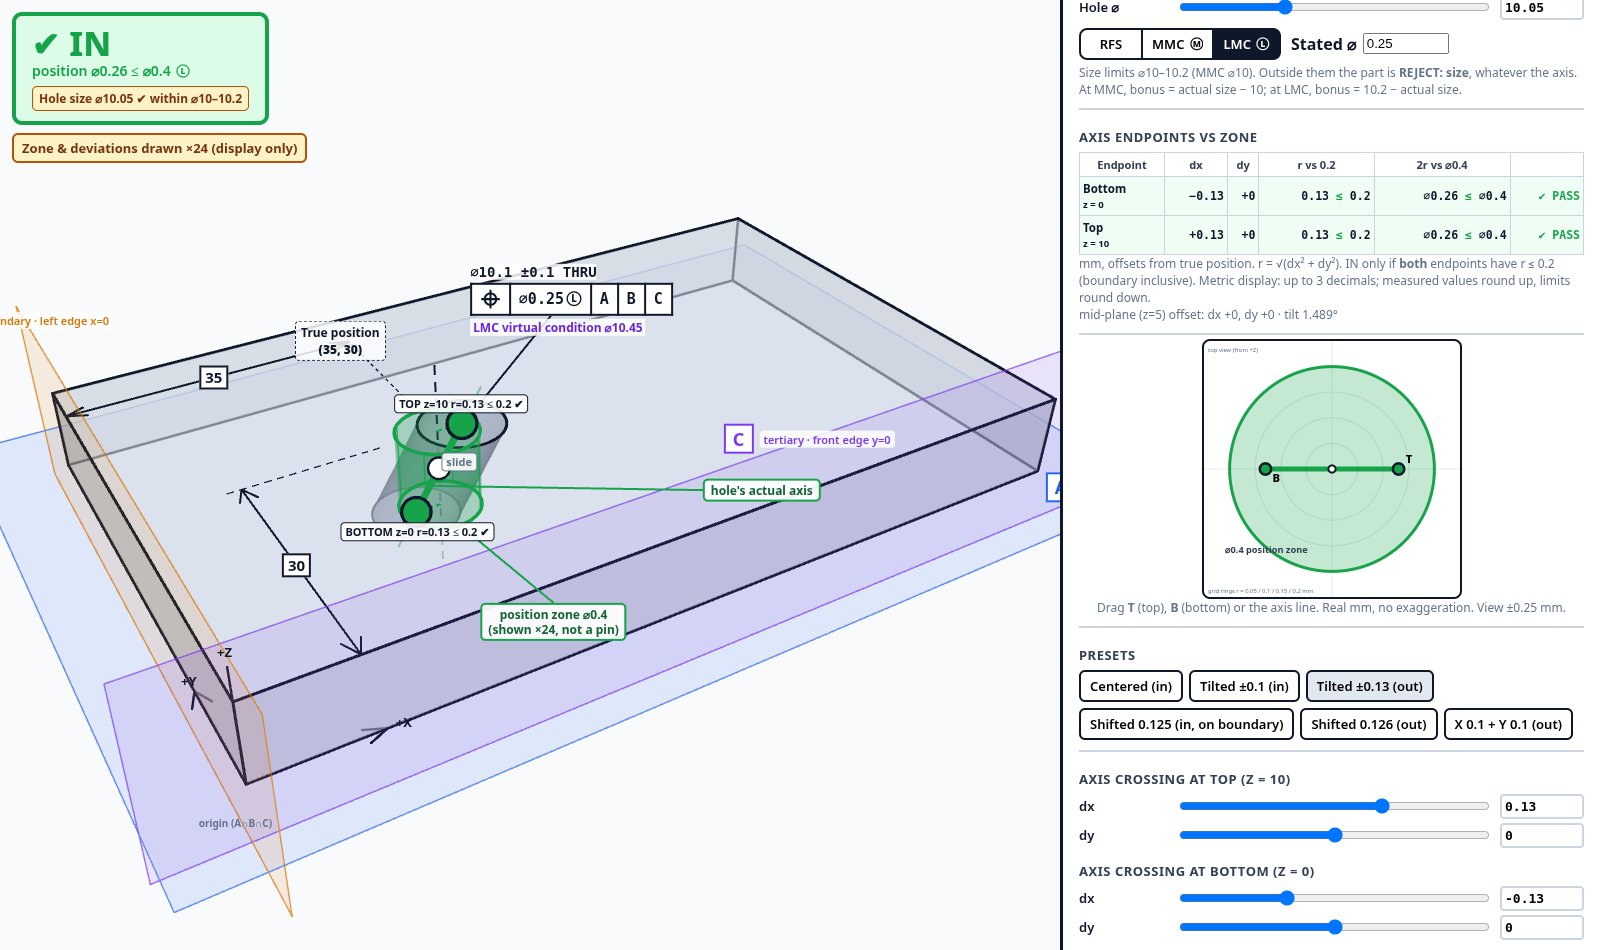
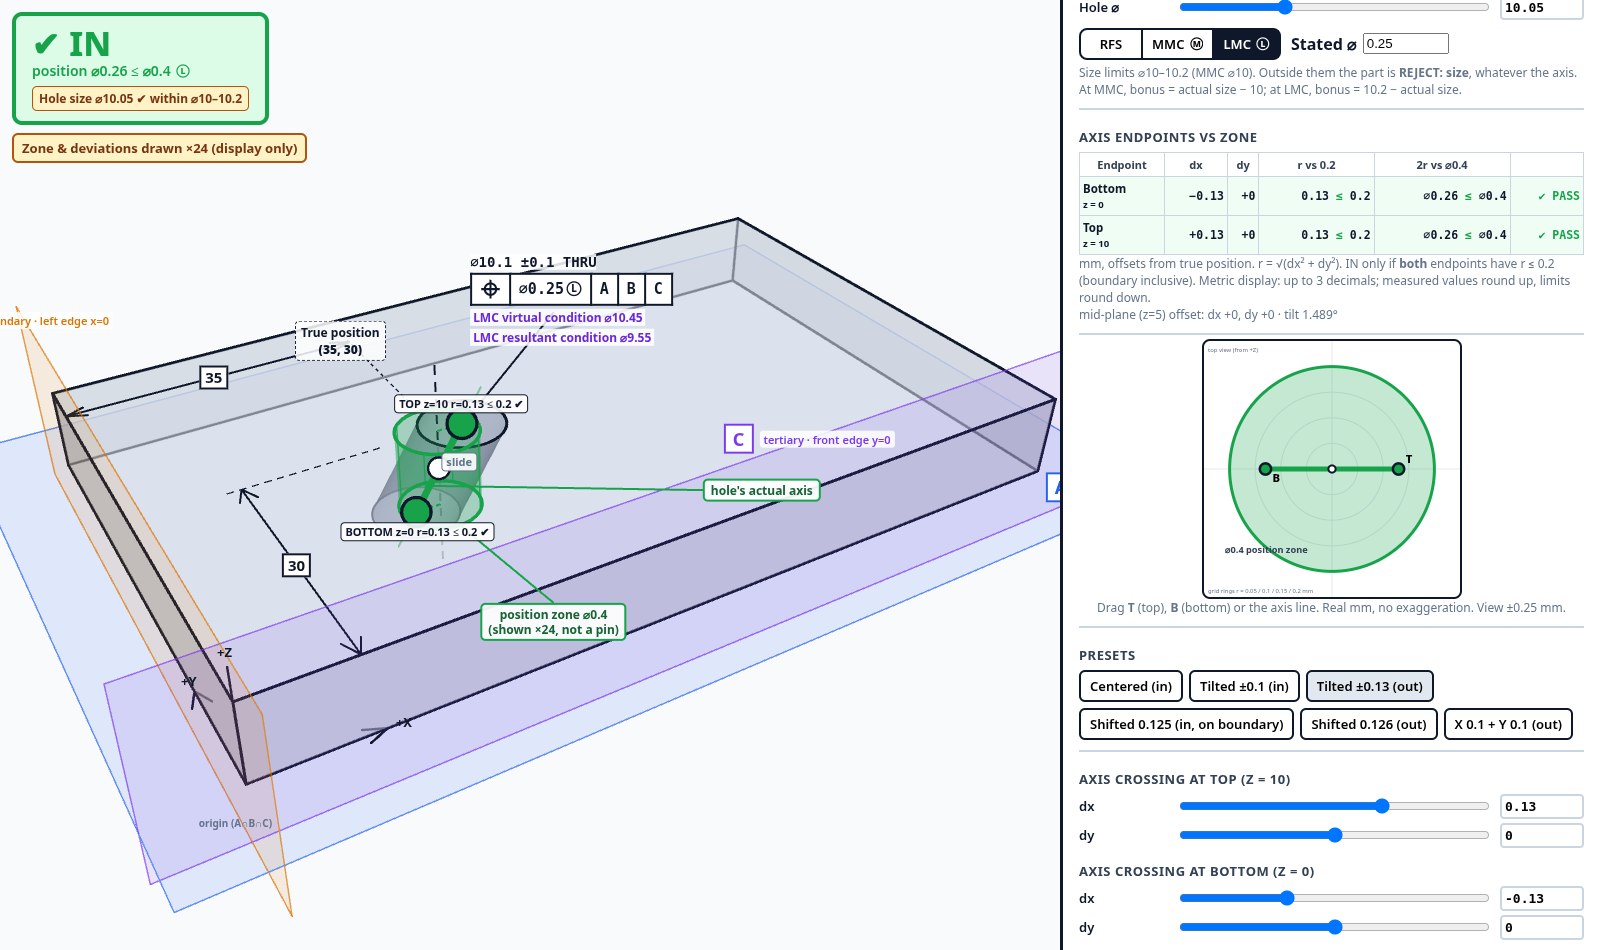
Sally: ⌀0 refusal names MMC or LMC; LMC resultant condition label (rounded up)

Changed region(s): [[0.2812, 0.2747, 0.4375, 0.3663]]

diff --git a/src/ui.js b/src/ui.js
@@ -13,7 +13,7 @@ export const STATUS = { IN: 'IN TOLERANCE', OUT: 'OUT OF TOLERANCE', REJECT_SIZE
 /** Shown when a stated ⌀0 is refused at RFS (Sally). */
 /** Teaching line shown (small) at MMC and LMC. */
 export const TEACH = 'MMC protects assembly, LMC protects material.';
-export const ZERO_REASON = '⌀0 is only meaningful at MMC, where bonus supplies the tolerance.';
+export const ZERO_REASON = '⌀0 is only meaningful at MMC or LMC, where bonus supplies the tolerance.';
 const BADGE = { IN: '✔ IN', OUT: '✘ OUT', REJECT_SIZE: '✘ REJECT: size', INVALID_TOL: '✘ INVALID' };
 const SVGNS = 'http://www.w3.org/2000/svg';
 
@@ -95,7 +95,10 @@ export function createUI(root, { onChange, onPreset, onMagnification, onXray, on
       ? `stated ⌀${fmt(sz.stated)} + bonus ⌀${fmtLimit(sz.bonus)} = allowed ⌀${fmtLimit(sz.allowed)}`
       : `stated ⌀${fmt(sz.stated)} = allowed ⌀${fmtLimit(sz.allowed)} <span class="muted">(RFS: no bonus)</span>`;
     $('#bonus-detail').textContent = bon ? (rej ? `no bonus: hole ⌀${fmt(sz.actualSize)} is outside ${SIZE_LIMITS}` : state.modifier === 'LMC' ? `bonus = LMC ⌀${fmt(SPEC.hole.lmc)} − actual ⌀${fmt(sz.actualSize)}` : `bonus = actual ⌀${fmt(sz.actualSize)} − MMC ⌀${fmt(SPEC.hole.mmc)}`) : '\u00a0'; // keep the line's height at RFS (no jump)
-    $('#vc-line').textContent = bon ? `${state.modifier === 'LMC' ? 'LMC ' : ''}virtual condition ⌀${fmtNote(sz.virtualCondition)}` : '\u00a0';
+    $('#vc-text').textContent = bon ? `${state.modifier === 'LMC' ? 'LMC ' : ''}virtual condition ⌀${fmtNote(sz.virtualCondition)}` : '\u00a0';
+    const lmc = state.modifier === 'LMC';
+    $('#rc-text').textContent = `LMC resultant condition ⌀${fmtUp(lmc ? sz.resultantCondition : SPEC.hole.mmc - (state.stated + SPEC.hole.lmc - SPEC.hole.mmc))}`;
+    $('#rc-text').style.visibility = lmc ? '' : 'hidden'; // reserve its space at RFS/MMC (no layout jump)
     $('#vc-line').style.visibility = bon ? 'visible' : 'hidden';
     $('#bonus-detail').style.visibility = bon ? 'visible' : 'hidden';
     $('#teach-line').style.visibility = bon ? 'visible' : 'hidden';
@@ -256,7 +259,7 @@ function template() {
     <div id="pos-detail" class="muted"></div>
     <div id="tol-line" class="tol-line"></div>
     <div id="bonus-detail" class="muted small"></div>
-    <div id="vc-line" class="vc-line"></div>
+    <div id="vc-line" class="vc-line"><span id="vc-text"></span><span id="rc-text" class="rc"></span></div>
     <div id="teach-line" class="muted small teach">${TEACH}</div>
     <div class="size-note"></div>
   </section>

diff --git a/src/tolerance.js b/src/tolerance.js
@@ -105,6 +105,8 @@ function assertFinite(obj) {
 const UNITS = 1e4;
 /** Round DOWN to 0.0001 (tiny float noise forgiven), so a bonus is never overstated. */
 const floorUnits = (v) => Math.floor(v * UNITS + 1e-6) / UNITS;
+/** Round UP to 0.0001 (minimum boundaries are never understated). */
+const ceilUnits = (v) => Math.ceil(v * UNITS - 1e-6) / UNITS;
 const roundUnits = (v) => Math.round(v * UNITS) / UNITS;
 
 /**
@@ -120,6 +122,8 @@ const roundUnits = (v) => Math.round(v * UNITS) / UNITS;
  *   stated tolerance, never on the actual size.
  * - LMC: bonus = lmc − actualSize (same clamps), allowed = stated + bonus.
  *   ⌀0 valid as at MMC. LMC virtual condition (hole) = lmc + stated.
+ *   LMC resultant condition = mmc − (stated + (lmc − mmc)), rounded up; it
+ *   depends only on the stated tolerance.
  * Bonus is floored to 0.0001 mm (conservative: never overstated).
  * On a size reject the bonus is not applicable: bonus = null and
  * allowed = stated (shown for information only; the verdict is REJECT: size).
@@ -149,6 +153,8 @@ export function allowedTolerance({ stated, modifier, actualSize, mmc, lmc }) {
     statedValid,
     bonus,
     allowed,
+    // LMC resultant condition (hole) = MMC size − allowed at MMC size = mmc − (stated + (lmc − mmc)); a minimum boundary, rounded up.
+    resultantCondition: modifier === 'LMC' ? ceilUnits(mmc - (stated + (lmc - mmc))) : null,
     virtualCondition: modifier === 'MMC' ? roundUnits(mmc - stated) : modifier === 'LMC' ? roundUnits(lmc + stated) : null,
   };
 }

diff --git a/src/viewer/scene.js b/src/viewer/scene.js
@@ -310,7 +310,7 @@ function buildStatic() {
 const FCF_ANCHOR = [TP.x + 30, TP.y + 20, H];
 let fcfLabel = null;
 function fcfDrawingHTML(state, result) {
-  const vc = state.modifier !== 'RFS' ? `<div class="vc-note">${state.modifier === 'LMC' ? 'LMC ' : ''}virtual condition ⌀${fmtNote(state.modifier === 'LMC' ? SPEC.hole.lmc + state.stated : SPEC.hole.mmc - state.stated)}</div>` : '';
+  const vc = state.modifier !== 'RFS' ? `<div class="vc-note">${state.modifier === 'LMC' ? 'LMC ' : ''}virtual condition ⌀${fmtNote(state.modifier === 'LMC' ? SPEC.hole.lmc + state.stated : SPEC.hole.mmc - state.stated)}</div>${state.modifier === 'LMC' ? `<div class="vc-note rc-note">LMC resultant condition ⌀${fmtUp(Math.ceil((SPEC.hole.mmc - (state.stated + SPEC.hole.lmc - SPEC.hole.mmc)) * 1e4 - 1e-6) / 1e4)}</div>` : ''}` : '';
   return `<div class="callout">⌀${SPEC.hole.nominal} ±${SPEC.hole.plusMinus} THRU</div>${fcfHTML(state)}${vc}`;
 }
 

diff --git a/styles.css b/styles.css
@@ -175,7 +175,9 @@ button:hover { background: #e2e8f0; }
 .mmcsym { width: 1.05em; height: 1.05em; display: inline-block; vertical-align: -0.17em; margin-left: 2px; }
 .fcf td.tol { white-space: nowrap; }
 .tol-line { font: 700 16px system-ui; margin-top: 6px; }
-.vc-line { font: 700 14px system-ui; color: #6d28d9; margin-top: 2px; }
+.vc-line { font: 700 14px system-ui; color: #6d28d9; margin-top: 2px; display: flex; flex-wrap: wrap; column-gap: 14px; }
+.vc-line .rc { color: #9d174d; }
+.rc-note { color: #9d174d; }
 .vc-note { font: 700 12px system-ui; color: #6d28d9; background: rgba(255,255,255,.85); width: fit-content; margin-top: 3px; padding: 0 3px; }
 .mc .mc-row { display: flex; flex-wrap: wrap; gap: 10px; align-items: center; margin: 8px 0 4px; }
 .mc .seg { display: inline-flex; }

diff --git a/tests/lmc.test.js b/tests/lmc.test.js
@@ -73,3 +73,11 @@ test('default VC labels: MMC ⌀9.75, LMC ⌀10.45, unchanged across sizes', () 
     assert.equal(tol(s).virtualCondition, 10.45);
   }
 });
+
+test('LMC resultant condition = 10.00 − (stated + 0.20): ⌀9.55 at default, unchanged with size, LMC only', () => {
+  for (const s of [10.0, 10.05, 10.1, 10.15, 10.2, 9.95, 10.25]) assert.equal(tol(s).resultantCondition, 9.55, String(s));
+  assert.equal(tol(10.1, 0.1).resultantCondition, 9.7);
+  assert.equal(tol(10.1, 0).resultantCondition, 9.8);
+  assert.equal(tol(10.1, 0.12345).resultantCondition, 9.6766); // 9.67655 -> rounded UP (minimum boundary)
+  for (const m of ['RFS', 'MMC']) assert.equal(allowedTolerance({ stated: 0.25, modifier: m, actualSize: 10.1, mmc: H.mmc, lmc: H.lmc }).resultantCondition, null);
+});

diff --git a/tests/ui-text.test.js b/tests/ui-text.test.js
@@ -4,7 +4,7 @@ import assert from 'node:assert/strict';
 import { ZERO_REASON, STATUS, sizeNote } from '../src/ui.js';
 
 test("refusing ⌀0 at RFS shows Sally's reason line", () => {
-  assert.equal(ZERO_REASON, '⌀0 is only meaningful at MMC, where bonus supplies the tolerance.');
+  assert.equal(ZERO_REASON, '⌀0 is only meaningful at MMC or LMC, where bonus supplies the tolerance.');
 });
 
 test('status strings and metric size note', () => {

diff --git a/ZONE.md b/ZONE.md
@@ -218,7 +218,7 @@ smallest hole), hole LMC ⌀10.20 (the largest).
 | 5 | Readout: "stated ⌀0.25 + bonus ⌀0.0xx = allowed ⌀0.xxx", with the bonus hidden at RFS | MMC: `stated ⌀0.25 + bonus ⌀0.15 = allowed ⌀0.4`. RFS: `stated ⌀0.25 = allowed ⌀0.25 (RFS: no bonus)`. Metric display, ≤ 3 decimals; bonus and allowed round down |
 | 6 | At MMC, a "virtual condition" label | **VC = 10.00 − stated**: ⌀9.75 at the default. It updates when the stated tolerance is edited and **never** changes with hole size. Shown in the panel and under the FCF in the drawing, at MMC only |
 | a | RFS/MMC toggle and an editable stated tolerance (default 0.25) | The MMC math uses the stated value. The Ⓜ symbol (drawn as an SVG, so no missing-glyph risk) appears in the panel FCF, the phone FCF chip and the 3D drawing FCF, at MMC only |
-| b | A stated ⌀0 is valid at MMC (all tolerance from bonus) and invalid at RFS | The math marks ⌀0 at RFS as `INVALID_TOL` (never accepted). The UI **blocks** it: typing 0 at RFS is refused and reverted, and switching to RFS while the stated value is 0 is refused. Both show the reason line (Sally's exact wording; ⌀0 is equally valid at LMC, see §9) *"⌀0 is only meaningful at MMC, where bonus supplies the tolerance."* |
+| b | A stated ⌀0 is valid at MMC (all tolerance from bonus) and invalid at RFS | The math marks ⌀0 at RFS as `INVALID_TOL` (never accepted). The UI **blocks** it: typing 0 at RFS is refused and reverted, and switching to RFS while the stated value is 0 is refused. Both show the reason line (Sally's wording, updated 2026-10-15 to name LMC too) *"⌀0 is only meaningful at MMC or LMC, where bonus supplies the tolerance."* |
 | c | On REJECT: size, the readout shows "bonus n/a", with no bonus amount | `bonus = null` (n/a) when the size is outside the limits, so `allowed` falls back to the stated value (for information only). MMC readout: `stated ⌀0.25 + bonus n/a (size rejected)` |
 | d | On REJECT: size, the zone and handles are neutral gray, with the position number kept | The zone, actual axis and its label, TOP/BOTTOM handles, endpoint rows and inset all turn neutral gray (#64748b), with no ✔/✘. The reported position (rounded up) stays in the readout, marked "(info)", and the handle tags show r "(size rejected)" |
 
@@ -271,6 +271,7 @@ phone chip and 3D drawing) shows Ⓛ at LMC. Tests: `tests/lmc.test.js`.
 | 2 | allowed = stated + bonus: 0.25 at ⌀10.20, 0.45 at ⌀10.00 | Same `allowed` path as MMC, so the zone, inset and labels all follow it |
 | 3 | A fixed label "LMC virtual condition ⌀(10.20 + stated)", ⌀10.45 at the default | `virtualCondition = lmc + stated`. It follows the stated value and **never** changes with size. Shown in the panel and under the drawing FCF |
 | 4 | Size reject, ⌀0 handling and gray zone work as at MMC, and the bonus rounds down | REJECT: size gives bonus n/a, a gray zone and the position kept. A stated ⌀0 is valid at LMC (and MMC) and blocked at RFS |
+| 5 | A fixed label "LMC resultant condition ⌀X", X = 10.00 − (stated + 0.20), i.e. MMC size minus the allowed tolerance at MMC size: ⌀9.55 at the default | `resultantCondition = mmc − (stated + (lmc − mmc))`, **rounded up** because it is a minimum boundary (math to 0.0001 mm, display to 0.001 mm). Shown beside the LMC virtual condition, in the panel and under the drawing FCF, **at LMC only** (its space is reserved at RFS/MMC so the panel does not jump). It follows the stated value (0.1 → ⌀9.7, 0 → ⌀9.8) and never changes with size |
 | — | Teaching line | *"MMC protects assembly, LMC protects material."* appears in small italics under the VC line at MMC and LMC, and is hidden at RFS |
 
 ### Sally's spot-check table (stated ⌀0.25; unit-tested and browser-checked)
@@ -281,6 +282,6 @@ phone chip and 3D drawing) shows Ⓛ at LMC. Tests: `tests/lmc.test.js`.
 | ⌀10.10 | 0.25 | 0.35 | 0.35 |
 | ⌀10.20 | 0.25 | 0.45 | 0.25 |
 
-At the default tolerance, the VC labels read **⌀9.75 at MMC** and **⌀10.45 at LMC**.
+At the default tolerance, the VC labels read **⌀9.75 at MMC** and **⌀10.45 at LMC**, and the LMC resultant condition reads **⌀9.55**.
 They stay unchanged while the size slider moves from ⌀10.00 to ⌀10.22 (checked
 in the panel and in the drawing). LMC ⌀10.05 gives bonus 0.15 and allowed 0.4.
